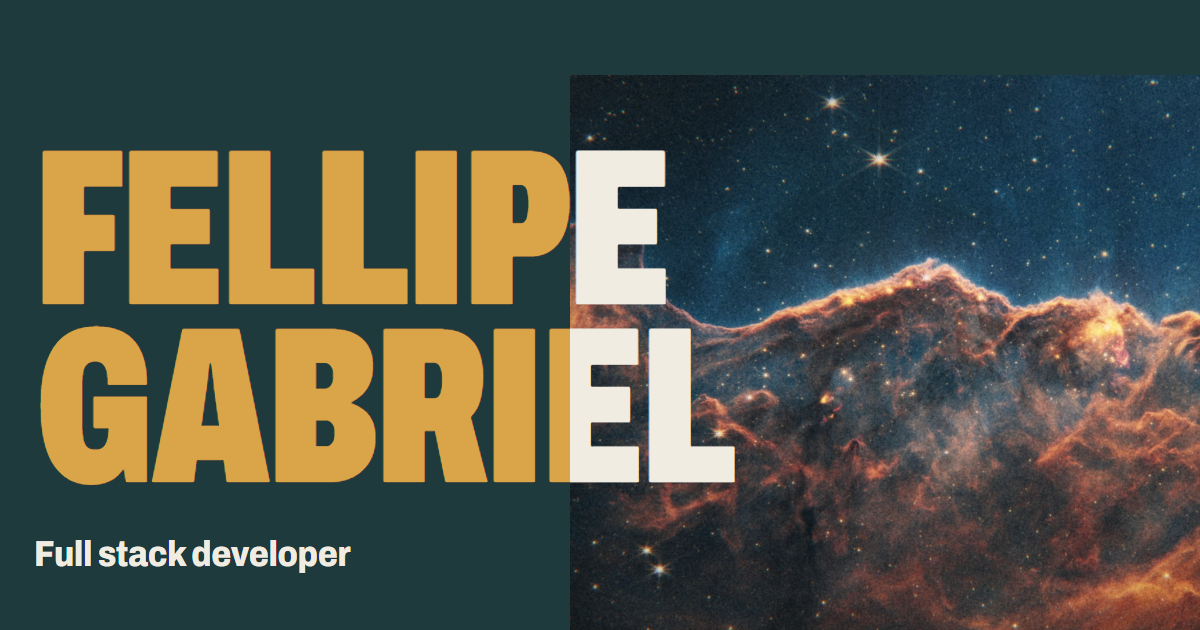
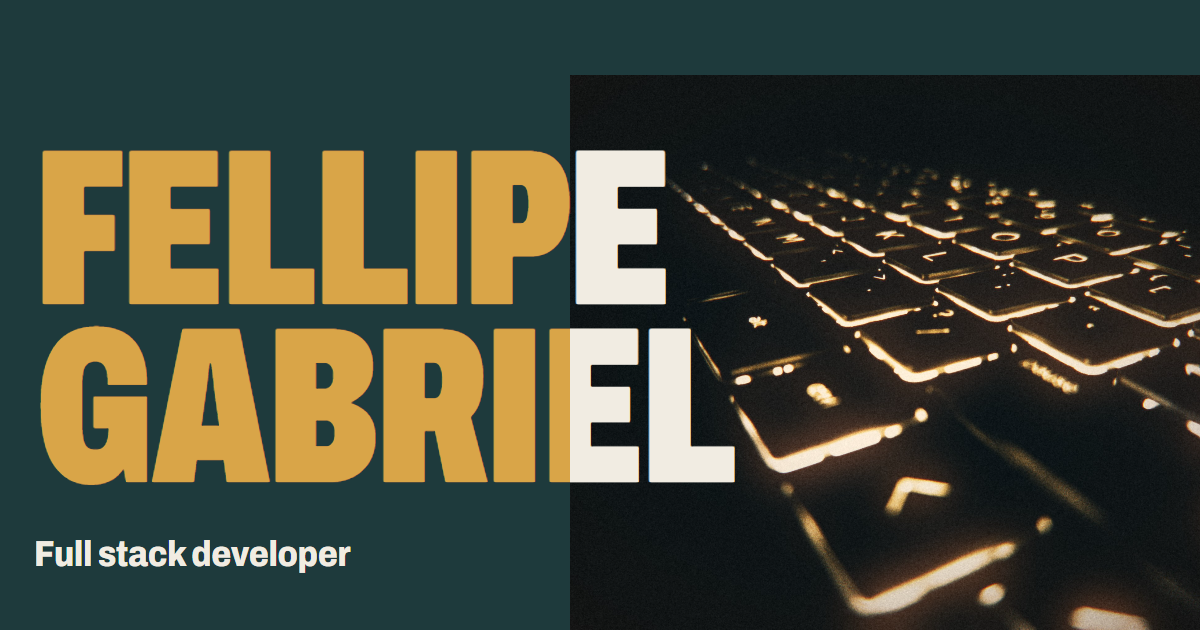
Troca as imagens do espaço por fotos ligadas ao trabalho
Teclado aceso (hero), prédios à noite (Projetos), rastros de luz e teclas de máquina de escrever (bordas rasgadas), café (Contato), estrada na floresta (próximo: Lyfia) e mão na tela (próximo: RecuperAVC). Todas com a gradação Halação; originais em src/assets/photos/raw/. Fotos do Wikimedia Commons (CC BY-SA 4.0) e do Unsplash, créditos no README.

diff --git a/scripts/film-grade.py b/scripts/film-grade.py
@@ -1,8 +1,8 @@
-"""Gradação de filme 'Halação' para as imagens do Webb.
+"""Gradação de filme 'Halação' para as fotos do site.
 
 Uso:
   python3 scripts/film-grade.py ENTRADA.jpg SAIDA.jpg [opções]
-  python3 scripts/film-grade.py --all        # regera src/assets/space/*.jpg a partir de raw/
+  python3 scripts/film-grade.py --all        # regera src/assets/photos/*.jpg a partir de raw/
 
 Os raios de bloom, halação e grão foram calibrados para ~1800px de largura e são
 multiplicados por largura/1800 (≈1.33 em 2400px). Ajustes por imagem ficam em PER_IMAGE.
@@ -83,11 +83,7 @@ def grade(x, s=1.0, p=DEFAULTS):
     return np.clip(grain(x, p['grain'], .9*s), 0, 1)
 
 # Ajustes por imagem (ver README). Só o que difere de DEFAULTS.
-PER_IMAGE: dict[str, dict] = {
-    # O disco do planeta estourava para creme e perdia o ciano: menos bloom e halação,
-    # ombro mais baixo e quase toda a saturação original.
-    'uranus.jpg': dict(shoulder=.88, sat=.95, bloom=.1, halation=.35),
-}
+PER_IMAGE: dict[str, dict] = {}
 
 MAX_W = 2400
 
@@ -104,15 +100,15 @@ if __name__ == '__main__':
     ap = argparse.ArgumentParser(description=__doc__, formatter_class=argparse.RawDescriptionHelpFormatter)
     ap.add_argument('src', nargs='?')
     ap.add_argument('dst', nargs='?')
-    ap.add_argument('--all', action='store_true', help='regera todas as imagens de src/assets/space/raw/')
+    ap.add_argument('--all', action='store_true', help='regera todas as fotos de src/assets/photos/raw/')
     for k, v in DEFAULTS.items():
         ap.add_argument(f'--{k}', type=float, help=f'padrão {v}')
     a = ap.parse_args()
     ov = {k: getattr(a, k) for k in DEFAULTS if getattr(a, k) is not None}
     if a.all:
-        space = Path(__file__).resolve().parent.parent/'src'/'assets'/'space'
-        for f in sorted((space/'raw').glob('*.jpg')):
-            run(f, space/f.name, ov)
+        photos = Path(__file__).resolve().parent.parent/'src'/'assets'/'photos'
+        for f in sorted((photos/'raw').glob('*.jpg')):
+            run(f, photos/f.name, ov)
     elif a.src and a.dst:
         run(a.src, a.dst, ov)
     else:
